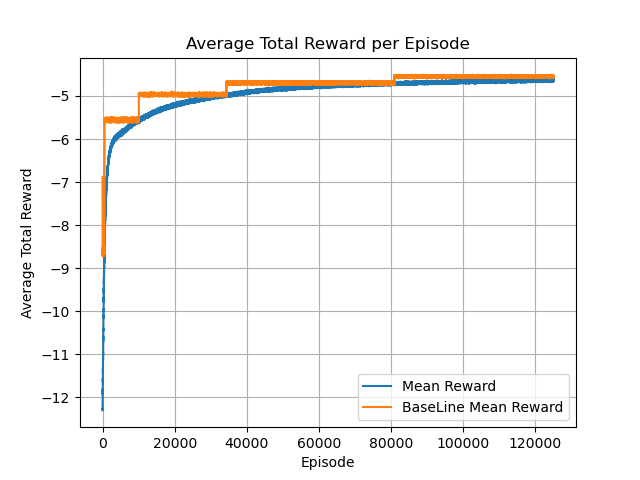
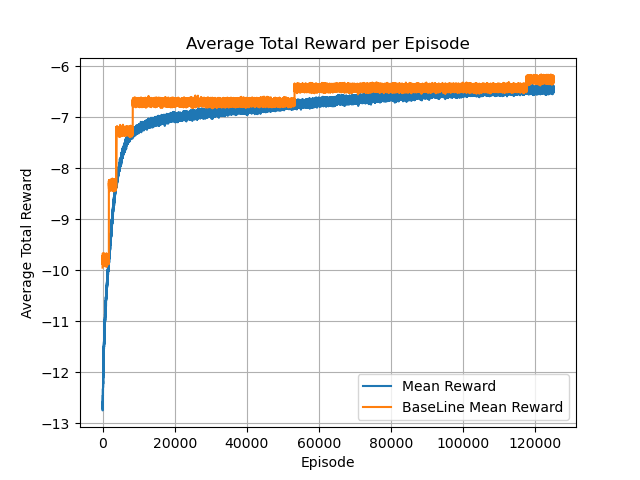
update

diff --git a/policy_reinforce-b_transformer_linear/inference.py b/policy_reinforce-b_transformer_linear/inference.py
@@ -12,108 +12,89 @@ import argparse
 import sys
 from config import environment, inference
 
-
+# n=48
 # input_data = np.array([
-#     [40,57],
-#     [51,28],
-#     [57,  3],
-#     [45, 94],
-#     [58, 28],
+#     [0.86738906, 0.27889447],
+#     [0.28676471, 0.        ],
+#     [0.7120743,  0.27328952],
+#     [0.0504386,  0.16061075],
+#     [0.39628483, 0.31580982],
+#     [0.98013416, 0.85968303],
+#     [0.9756192,  0.71627368],
+#     [0.93588751, 0.24313877],
+#     [0.88854489, 0.36238887],
+#     [0.14215686, 0.39408581],
+#     [0.70407637, 0.50173947],
+#     [0.77128483, 0.55334364],
+#     [0.60577915, 0.5148821 ],
+#     [0.59365325, 0.39137998],
+#     [0.81746646, 0.51662157],
+#     [0.78650671, 0.12736761],
+#     [0.98052116, 1.        ],
+#     [0.96130031, 0.69192114],
+#     [0.99613003, 0.91090066],
+#     [0.75980392, 0.6863162 ],
+#     [0.57701238, 0.64920758],
+#     [0.78573271, 0.21260147],
+#     [0.66937564, 0.41979126],
+#     [0.20936533, 0.5409741 ],
+#     [0.55430857, 0.44684963],
+#     [0.08578431, 0.19250097],
+#     [0.97329721, 0.92945497],
+#     [0.97149123, 0.7674913 ],
+#     [0.40853973, 0.14418245],
+#     [0.94711042, 0.86896019],
+#     [0.97200722, 0.53942791],
+#     [0.41731166, 0.63683804],
+#     [0.82765738, 0.61132586],
+#     [0.59313725, 0.22960959],
+#     [0.00167699, 0.42636258],
+#     [0.93369453, 0.72844994],
+#     [1.,         0.88616158],
+#     [0.95227038, 0.43177426],
+#     [0.44814241, 0.54483958],
+#     [0.80766254, 0.41070738],
+#     [0.64176987, 0.02512563],
+#     [0.24587203, 0.30131426],
+#     [0.9378225,  0.94491689],
+#     [0.96736326, 0.62408195],
+#     [0.,         0.51526865],
+#     [0.87680599, 0.57653653],
+#     [0.66756966, 0.62775416],
+#     [0.38867389, 0.37340549],
 # ])
+
+# n=25
 input_data = np.array([
-    [0.86738906, 0.27889447],
-    [0.28676471, 0.        ],
-    [0.7120743,  0.27328952],
-    [0.0504386,  0.16061075],
-    [0.39628483, 0.31580982],
-    [0.98013416, 0.85968303],
-    [0.9756192,  0.71627368],
-    [0.93588751, 0.24313877],
-    [0.88854489, 0.36238887],
-    [0.14215686, 0.39408581],
-    [0.70407637, 0.50173947],
-    [0.77128483, 0.55334364],
-    [0.60577915, 0.5148821 ],
-    [0.59365325, 0.39137998],
-    [0.81746646, 0.51662157],
-    [0.78650671, 0.12736761],
-    [0.98052116, 1.        ],
-    [0.96130031, 0.69192114],
-    [0.99613003, 0.91090066],
-    [0.75980392, 0.6863162 ],
-    [0.57701238, 0.64920758],
-    [0.78573271, 0.21260147],
-    [0.66937564, 0.41979126],
-    [0.20936533, 0.5409741 ],
-    [0.55430857, 0.44684963],
-    [0.08578431, 0.19250097],
-    [0.97329721, 0.92945497],
-    [0.97149123, 0.7674913 ],
-    [0.40853973, 0.14418245],
-    [0.94711042, 0.86896019],
-    [0.97200722, 0.53942791],
-    [0.41731166, 0.63683804],
-    [0.82765738, 0.61132586],
-    [0.59313725, 0.22960959],
-    [0.00167699, 0.42636258],
-    [0.93369453, 0.72844994],
-    [1.,         0.88616158],
-    [0.95227038, 0.43177426],
-    [0.44814241, 0.54483958],
-    [0.80766254, 0.41070738],
-    [0.64176987, 0.02512563],
-    [0.24587203, 0.30131426],
-    [0.9378225,  0.94491689],
-    [0.96736326, 0.62408195],
-    [0.,         0.51526865],
-    [0.87680599, 0.57653653],
-    [0.66756966, 0.62775416],
-    [0.38867389, 0.37340549],
+    [0.33333333, 0.84693878],
+    [0.54166667, 0.        ],
+    [0.19791667, 0.05102041],
+    [0.02083333, 0.64285714],
+    [0.59375,    0.56122449],
+    [0.22916667, 0.90816327],
+    [0.76041667, 0.84693878],
+    [0.04166667, 0.95918367],
+    [0.52083333, 0.98979592],
+    [0.16666667, 0.86734694],
+    [0.34375,    0.78571429],
+    [0.32291667, 0.98979592],
+    [0.09375,    0.23469388],
+    [0.22916667, 0.7244898 ],
+    [0.07291667, 1.        ],
+    [0.30208333, 0.67346939],
+    [1.,         0.90816327],
+    [0.75,       0.60204082],
+    [0.09375,    0.29591837],
+    [0.5,        0.84693878],
+    [0.08333333, 0.79591837],
+    [0.82291667, 0.84693878],
+    [0.,         0.76530612],
+    [0.47916667, 0.37755102],
+    [0.42708333, 0.87755102]
 ])
-
-# input_data = np.array([
-#     [0.33333333, 0.84693878],
-#     [0.54166667, 0.        ],
-#     [0.19791667, 0.05102041],
-#     [0.02083333, 0.64285714],
-#     [0.59375,    0.56122449],
-#     [0.22916667, 0.90816327],
-#     [0.76041667, 0.84693878],
-#     [0.04166667, 0.95918367],
-#     [0.52083333, 0.98979592],
-#     [0.16666667, 0.86734694],
-#     [0.34375,    0.78571429],
-#     [0.32291667, 0.98979592],
-#     [0.09375,    0.23469388],
-#     [0.22916667, 0.7244898 ],
-#     [0.07291667, 1.        ],
-#     [0.30208333, 0.67346939],
-#     [1.,         0.90816327],
-#     [0.75,       0.60204082],
-#     [0.09375,    0.29591837],
-#     [0.5,        0.84693878],
-#     [0.08333333, 0.79591837],
-#     [0.82291667, 0.84693878],
-#     [0.,         0.76530612],
-#     [0.47916667, 0.37755102],
-#     [0.42708333, 0.87755102]
-# ])
 
 # B×N×D に reshape（B=1）
 input_data = input_data[np.newaxis, :, :]  # shape = (1, 25, 2)
-
-# input_data = np.array([
-#     [34, 83],
-#     [54,  0],
-#     [21,  5],
-#     [ 4, 63],
-#     [59, 55],
-#     [24, 89],
-#     [75, 83],
-#     [ 6, 94],
-#     [52, 97],
-#     [18, 85],
-# ])
 
 def plot_route(reward_history):
     # 最小トータルリワードのエピソードを取得
@@ -147,9 +128,8 @@ def plot_route(reward_history):
     plt.title(f'Best Route with Total Reward: {-1 * best_reward}')
     plt.legend()
     plt.grid(True)
-    plt.savefig(f"Best Route")
+    plt.savefig(f"./route/Best Route")
     plt.close()  # 状態をリセット（重要）
-    # plt.show()
 
 def plot_reward_history(reward_history_rl, reward_history_random):
     plt.figure(figsize=(10, 6))
@@ -161,9 +141,8 @@ def plot_reward_history(reward_history_rl, reward_history_random):
     plt.title('Total Reward History')
     plt.legend()
     plt.grid(True)
-    plt.savefig(f"Best Route Reward History")
+    plt.savefig(f"./route/Best Route Reward History")
     plt.close()  # 状態をリセット（重要）
-    # plt.show()
 
 def calc_distance_random_order(input_data):
     # 訪問順序をランダムに生成

diff --git a/policy_reinforce-b_transformer_linear/model/model_transformer.py b/policy_reinforce-b_transformer_linear/model/model_transformer.py
@@ -102,7 +102,6 @@ class Encoder(nn.Module):
     def __init__(self, input_dim=2, hidden_dim=128, ff_hidden_dim=512, n_layers=3):
         super().__init__()
         self.device = get_device()
-        # self.conv1 = GCNConv(input_dim, hidden_dim)
         self.linear = nn.Linear(input_dim, hidden_dim)
         self.layers = nn.ModuleList([
             EncoderLayer(hidden_dim, ff_hidden_dim) for _ in range(n_layers)
@@ -110,8 +109,7 @@ class Encoder(nn.Module):
         
     def forward(self, data):
         ''' 順伝播 '''
-        x, edge_index, edge_weight, batch = data.x, data.edge_index, data.edge_weight, data.batch
-        # h = self.conv1(x, edge_index, edge_weight)
+        x = data.x
         # print(f"x.shape:{x.shape}")
         h = self.linear(x)
 

diff --git a/policy_reinforce-b_transformer_linear/train.py b/policy_reinforce-b_transformer_linear/train.py
@@ -94,7 +94,7 @@ def main(lr=1e-6, gamma=0.95, episodes=training["episodes"], save_path="save/mod
         baseline_reward_history.append(baseline_total_reward)
 
         # print(f'Episode: {episode}, Total Reward: {total_reward}')
-        if episode % 100 == 0:
+        if episode % 1000 == 0:
             rewards = np.array(agent_total_reward)
             mean = rewards.mean()
             std = rewards.std()
